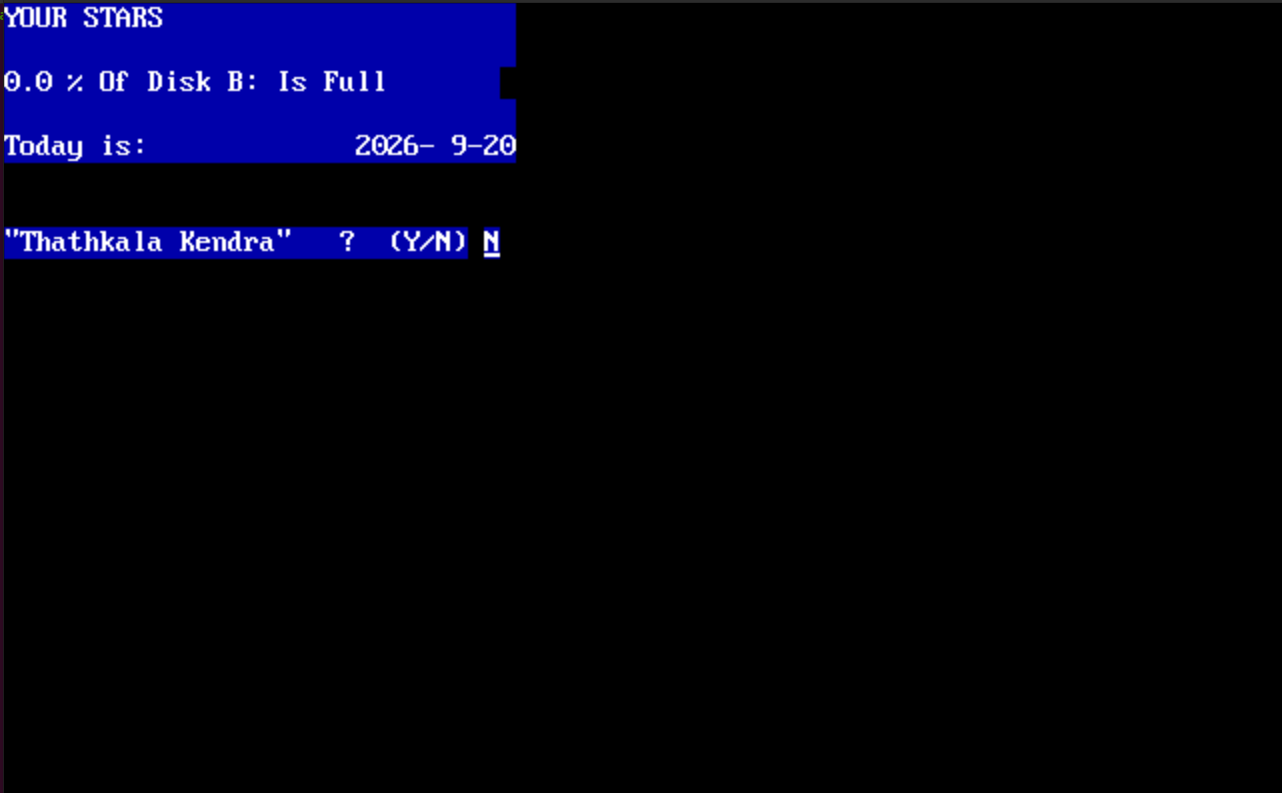
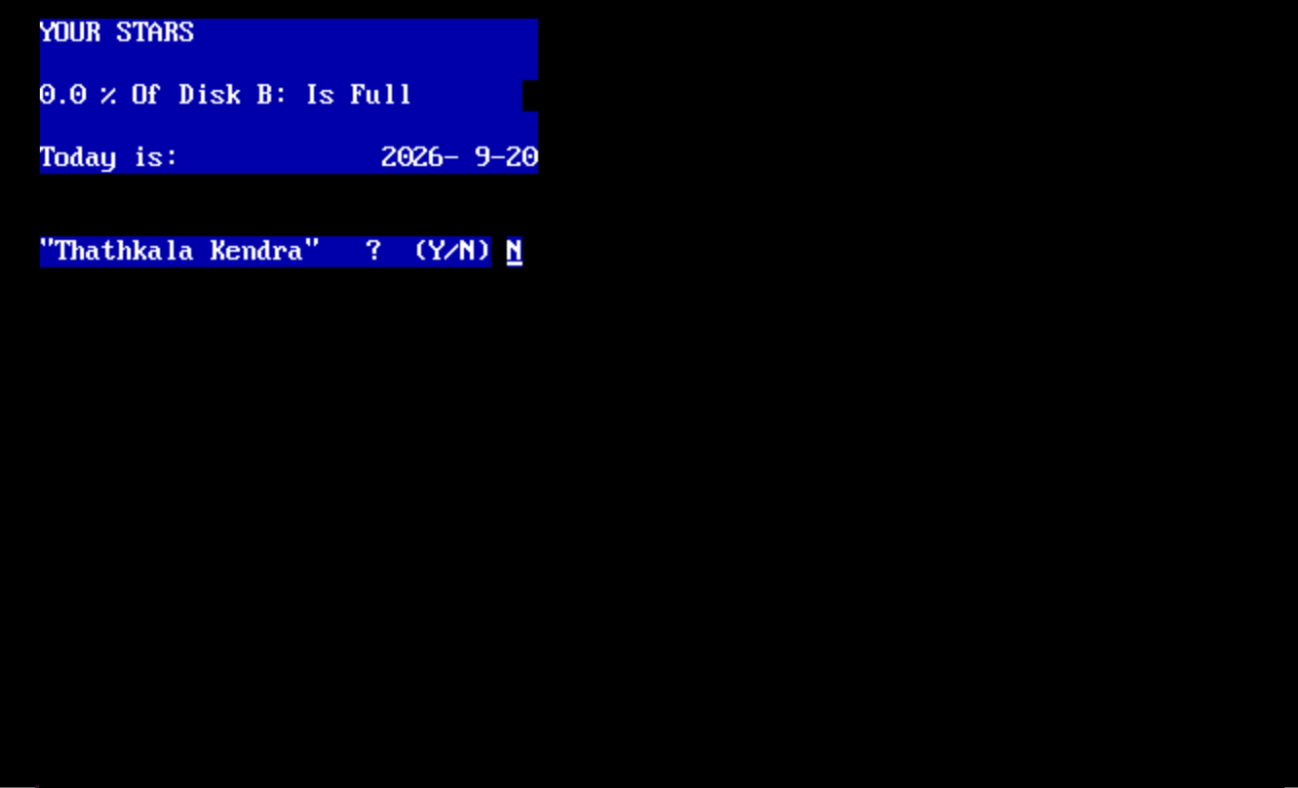
v2.8.17 (MSVC-only Windows leg, 64-bit guard)

Changed region(s): [[0.0, 0.0, 1.0, 0.2437], [0.0, 0.2741, 0.4056, 0.3655], [0.0, 0.9746, 0.0312, 1.0]]

diff --git a/src/Compat.hpp b/src/Compat.hpp
@@ -1,0 +1,16 @@
+#pragma once
+// MSVC compatibility shims for the POSIX bits used by the CLI
+// (isatty + STD*_FILENO; ioctl stays behind its own _WIN32 guard).
+// MinGW already provides unistd.h, so EVERY guard here is _MSC_VER,
+// never _WIN32 (a _WIN32 guard would silently break the MinGW build).
+#if defined(_MSC_VER)
+#include <io.h>
+#define isatty _isatty
+#ifndef STDIN_FILENO
+#define STDIN_FILENO 0
+#define STDOUT_FILENO 1
+#define STDERR_FILENO 2
+#endif
+#else
+#include <unistd.h>
+#endif

diff --git a/src/ModernRenderer.hpp b/src/ModernRenderer.hpp
@@ -489,7 +489,7 @@ inline std::string formatAge(YMD v) {
 
 // ---------------------------------------------------------------- sections
 
-inline constexpr const char* kAppVersion = "2.8.16";
+inline constexpr const char* kAppVersion = "2.8.17";
 
 // Closing art for full modern runs: top/bottom spacing, block-centered,
 // plain (no color — the art is busy enough). Skipped when the terminal is

diff --git a/src/CLI.cpp b/src/CLI.cpp
@@ -23,7 +23,7 @@
 #include <cstdio>
 #include <cmath>
 #include <ctime>
-#include <unistd.h>
+#include "Compat.hpp"
 
 namespace star {
 namespace {

diff --git a/README.md b/README.md
@@ -12,14 +12,9 @@ deliberately reproduced behaviors of the original program.
 
 ## The original program
 
-This port reproduces the DOS program screen for screen. Its opening
-input screen looked like this:
+The 16-bit DOS program this port replaces:
 
 ![Original STAR.EXE opening screen](docs/images/original-star-screen.png)
-
-*The original "YOUR STARS" input screen: disk-space check, date line,
-and the Thathkala Kendra prompt — every behavior preserved, quirks
-included (see `docs/quirks.md`).*
 
 ### Running the original
 
@@ -33,7 +28,8 @@ dosbox-x legacy/STAR.EXE
 
 ## Requirements
 
-- C++20 compiler (GCC or Clang) plus a C compiler, CMake >= 3.16
+- C++20 compiler (GCC, Clang, or MSVC 2022+) plus a C compiler,
+  CMake >= 3.16; all builds are 64-bit (enforced by the build)
 - Python 3 (test-gate harness only: `extraction_check`, `corpus`)
 - Swiss Ephemeris v2.10.3final sources, vendored under
   `third_party/` (Moshier fallback; no downloads, no data files)
@@ -67,8 +63,7 @@ that reduces passing tests is a bug in that step — revert and re-approach.
 
 Tagged versions (`v*`) build `star_linux`, `star_macos`, and
 `star.exe` via `.github/workflows/release.yml`, published as GitHub
-Releases. Windows builds use MinGW (MSVC is not supported — the
-sources rely on unistd.h/isatty).
+Releases. Windows builds use MSVC (VS2022 x64).
 
 ## Usage
 

diff --git a/CHANGELOG.md b/CHANGELOG.md
@@ -4,6 +4,12 @@ Version policy: patch = fixes/docs, minor = features. `kAppVersion` in
 `src/ModernRenderer.hpp` is authoritative; tests pin the constant, never
 the literal.
 
+## 2.8.17
+
+- Patch: MSVC-only Windows leg — _MSC_VER compat shims
+  (src/Compat.hpp), compiler-conditional flags, 64-bit enforcement
+  on all platforms; MinGW retired from CI.
+
 ## 2.8.16
 
 - Patch: README refresh — cross-platform intro, original-program
